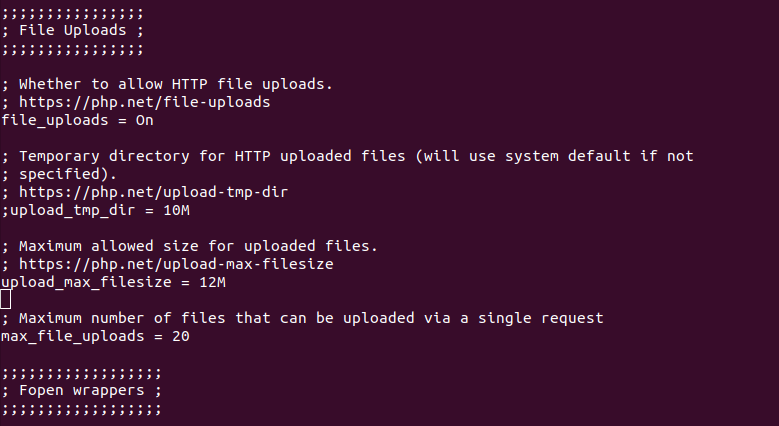
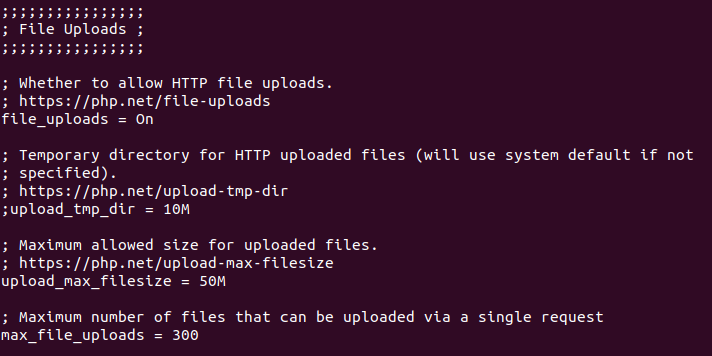
main

Changed region(s): [[0.0, 0.1854, 0.9888, 0.8034], [0.0, 0.8652, 0.8652, 0.9888], [0.0, 0.0, 0.2163, 0.1545]]

diff --git a/README.md b/README.md
@@ -1,81 +1,141 @@
 # PROJECTE 0.1 - Despliegue y Configuración en AWS
-## ÍNDICE
-- [Despliegue en AWS](#despliegue-en-aws)
-- [Tecnologías Utilizadas](#tecnologías-utilizadas)
-- [Instalación y Configuración](#instalación-y-configuración)
-- [Estructura de la Base de Datos](#estructura-de-la-base-de-datos)
-- [Archivos del Proyecto](#archivos-del-proyecto)
-- [Permisos y Seguridad](#permisos-y-seguridad)
-- [Requisitos Funcionales](#requisitos-funcionales)
-- [Requisitos No Funcionales](#requisitos-no-funcionales)
+## Índice
+
+1. [Despliegue en AWS](#1-despliegue-en-aws)
+    - [Creación de Instancia EC2](#11-creación-de-instancia-ec2)
+        - [Conexión mediante SSH](#111-conexión-mediante-ssh)
+    - [Actualización del sistema](#12-actualización-del-sistema)
+2. [Tecnologías utilizadas](#2-tecnologías-utilizadas)
+    - [NGINX vs Apache](#21-nginx-vs-apache)
+    - [PHP-FPM vs mod_php](#22-php-fpm-vs-mod_php)
+    - [MariaDB vs MySQL](#23-mariadb-vs-mysql)
+    - [Comparativa de Tecnologías](#24-comparativa-de-tecnologías)
+3. [Instalación y Configuración](#3-instalación-y-configuración)
+    - [Instalación de PHP](#31-instalación-de-php)
+    - [Configuración de PHP](#32-configuración-de-php)
+    - [Instalación de MariaDB](#33-instalación-de-mariadb)
+    - [Configuración de MariaDB](#34-configuración-de-mariadb)
+    - [Instalación de NGINX](#35-instalación-de-nginx)
+    - [Configuración de NGINX](#36-configuración-de-nginx)
+4. [Base de datos](#4-base-de-datos)
+5. [Archivos del Proyecto](#5-archivos-del-proyecto)
+6. [Permisos y Seguridad](#6-permisos-y-seguridad)
+7. [Requisitos Funcionales](#7-requisitos-funcionales)
+8. [Requisitos No Funcionales](#8-requisitos-no-funcionales)
+
 
 
 ## 1. Despliegue en AWS
 
 ### 1.1 Creación de Instancia EC2
-- Acceder a la consola de AWS
-- Lanzar una instancia EC2
-- Seleccionar la AMI **Amazon Linux 2**
-- Tipo de instancia: **t2.micro** (nivel gratuito)
-- Configurar el **grupo de seguridad** con los puertos: 22 (SSH) / 80 (HTTP) / 443 (HTTPS)
-- Generar un **par de claves SSH**
+- Lanzamiento del laboratorio de **AWS Academy**.  
+- Abrir consola AWS y crear instancia EC2.  
+- Selección de AMI: **Amazon Linux 2**.  
+- Tipo de instancia: **t2.micro** (nivel gratuito).  
+- Configuración de **grupo de seguridad**: puertos 22 (SSH), 80 (HTTP), 443 (HTTPS).  
+- Generación de par de claves SSH.
 
-![Texto Alternativo](/img/instancia-ec2.png)
+![Instancia EC2](/img/instancia-ec2.png)
 
-#### Conexión mediante SSH
-    ssh -i "tu-clave.pem" ec2-user@tu-ip-publica
+#### 1.1.1. Conexión mediante SSH
+    ssh -i "clave.pem" ec2-user@tu-ip-publica
 
-![Texto Alternativo](/img/conexión-ssh.png)
+![Conexión SSH](/img/conexión-ssh.png)
 
-## Lanzamiento de la máquina AWS
-- Lanzamiento del Laboratorio para el alumnado de AWS Academy
+### 1.2 Actualización del sistema
+    sudo yum update -y
 
-![Texto Alternativo](/img/image.png)
-
-- Abro la consola AWS para cerrar instancia
-
-![Texto Alternativo](/img/image1.png)
-
-- Termino creando la instancia
-
-![Texto Alternativo](/img/image2.png)
-
-- Ya la ejecuto y los datos
-
-![Texto Alternativo](/img/image3.png)
+![Actualización Sistema](/img/actualización-sistema.png)
 
 
-## Conexión de la máquina AWS con ssh
+## 2. Tecnologías utilizadas
+### 2.1. NGINX vs Apache
+
+<p align="center">
+  <img src="img/nginx-apache.png" alt="NGINX vs Apache" width="500" />
+</p>
 
 
+Se eligió **NGINX** como servidor web principal en lugar de **Apache** por varias razones:
 
-- Actualización de sistema
+- **Arquitectura basada en eventos:** NGINX maneja un gran número de conexiones concurrentes de manera más eficiente, mientras que Apache utiliza un modelo basado en procesos o hilos, que consume más memoria y CPU bajo carga alta.
+- **Consumo de recursos:** NGINX es más ligero, lo que lo hace ideal para entornos cloud con recursos limitados (por ejemplo, **t2.micro** en AWS).
+- **Rendimiento en contenido estático:** NGINX entrega archivos estáticos mucho más rápido que Apache, reduciendo tiempos de carga.
+- **Estabilidad bajo carga:** Su diseño evita que el servidor se bloquee ante picos de tráfico, ofreciendo mayor confiabilidad para aplicaciones web modernas.
 
-![Texto Alternativo](/img/image5.png)
+En resumen, **NGINX ofrece mayor eficiencia, estabilidad y escalabilidad** frente a Apache, especialmente en entornos con tráfico variable o alto número de conexiones simultáneas.
 
-## Tecnologias implicadas
-- NGINX vs Apache
-  > Nginx consume menos recursos y maneja mejor conexiones concurrentes que Apache 
-- PHP FPM
-  > Usamos PHP-FPM porque separa PHP del webserver: si un script falla o se cuelga, nginx sigue sirviendo imágenes/CSS sin caerse. Con mod_php todo el Apache se satura.
-- MariaDB vs MySql
-  > MariaDB porque su imagen Docker Alpine es 4x más pequeña y ligera que MySQL oficial, mismo SQL pero menos RAM
+---
 
-### Instalacion de cada servicio
-***Intalación de php***
-> sudo yum install -y httpd php
+### 2.2. PHP-FPM vs mod_php
 
-![Texto](/img/image.png)
+<p align="center">
+  <img src="img/phpfpm-modphp.png" alt="PHP-FPM vs mod_php" width="500" />
+</p
 
-**Verificar configuración de PHP para subida de archivos**
-> sudo nano /etc/php.ini
+Se eligió **PHP-FPM (FastCGI Process Manager)** en lugar de **mod_php** por varias razones clave:
 
-![Texto](/img/arxiuphp.png)
+- **Separación de responsabilidades:** PHP-FPM ejecuta los scripts PHP de forma independiente del servidor web, mientras que mod_php ejecuta PHP dentro del mismo proceso de Apache. Esto significa que si un script falla, **NGINX sigue funcionando sin interrupciones**, garantizando mayor estabilidad.
+- **Eficiencia y rendimiento:** PHP-FPM permite manejar múltiples procesos PHP de manera optimizada y controlada, ajustando memoria, número de procesos y tiempos de ejecución. Esto resulta más eficiente que mod_php, que consume más memoria y recursos al correr PHP dentro del servidor web.
+- **Compatibilidad con NGINX:** NGINX no soporta módulos PHP como Apache, por lo que PHP-FPM es la opción natural y recomendada para esta combinación.
+- **Escalabilidad y seguridad:** Al separar la ejecución de PHP del servidor web, se facilita el aislamiento de procesos, la gestión de usuarios y la implementación de entornos escalables o contenedores, mejorando tanto la seguridad como la capacidad de escalar la aplicación.
 
-![Texto](/img/anterior.png)
+En resumen, **PHP-FPM ofrece estabilidad, rendimiento y compatibilidad con NGINX**, mientras que mod_php sería más limitado y pesado, especialmente en entornos cloud con recursos limitados.
 
-Cambiamos los datos segun nuestras necesidades
-![Texto](/img/nuevo.png)
+---
+
+### 2.3. MariaDB vs MySQL
+
+<p align="center">
+  <img src="img/mysql-mariadb.png" alt="MariaDB vs MySQL" width="500" />
+</p>
+
+Se optó por **MariaDB** como sistema gestor de bases de datos en lugar de **MySQL** por varias razones:
+
+- **Ligereza y rendimiento:** MariaDB es más ligera que MySQL, lo que se traduce en un mejor rendimiento en instancias con recursos limitados.
+- **Compatibilidad completa:** Mantiene **compatibilidad total con SQL y con las APIs de MySQL**, permitiendo migraciones sencillas y sin necesidad de cambiar el código de la aplicación.
+- **Desarrollo activo y comunidad:** Al ser un proyecto de código abierto con desarrollo activo, MariaDB recibe mejoras constantes en rendimiento, seguridad y estabilidad, mientras que algunas versiones de MySQL tienen ciclos de actualización más conservadores.
+- **Funciones avanzadas:** MariaDB ofrece características adicionales como motores de almacenamiento optimizados, mejoras en replicación y mejor soporte para entornos modernos.
+
+En resumen, **MariaDB combina compatibilidad, eficiencia y soporte activo**, siendo una alternativa moderna y confiable frente a MySQL.
+
+### 2.4. Comparativa de Tecnologías
+
+| Tecnología | Opción 1 | Opción 2 | Justificación de la elección |
+|------------|----------|----------|------------------------------|
+| Servidor web | **NGINX** | Apache | NGINX consume menos recursos, maneja mejor conexiones concurrentes, entrega contenido estático más rápido y es más estable bajo carga, ideal para entornos cloud. |
+| Procesamiento PHP | **PHP-FPM** | mod_php | PHP-FPM separa la ejecución de PHP del servidor web, permite mejor control de procesos y memoria, mejora la estabilidad y es compatible con NGINX, mientras que mod_php es más pesado y limitado. |
+| Base de datos | **MariaDB** | MySQL | MariaDB es más ligera, mantiene compatibilidad total con MySQL, tiene desarrollo activo, mejor rendimiento y funciones avanzadas, siendo ideal para entornos modernos y con recursos limitados. |
+
+## 3. Instalación y configuración
+
+### 3.1 Instalación de PHP
+    sudo yum install -y httpd php
+
+![PHP FPM](/img/php-fpm.png)
+
+Comprobación del estado de los servicios para garantizar que PHP FPM está operativo.
+
+![Comprobación Servicios](/img/systemctl-php.png)
+
+### 3.2 Configuración de PHP
+#### 3.2.1. Edición del archivo php.ini
+
+Modificación del archivo de configuración principal de PHP para optimizar la subida de archivos multimedia.
+
+    sudo nano /etc/php.ini
+
+![Archivo PHP](/img/arxiuphp.png)
+
+#### 3.2.2. Parámetros de configuración modificados
+
+| Directiva             | Valor Original | Valor Configurado | Justificación Técnica                                                                 |
+|-----------------------|----------------|-----------------|--------------------------------------------------------------------------------------|
+| upload_tmp_dir        | 2M             | 10M             | Permite la subida de imágenes de mayor resolución (hasta 10MB), necesario para contenido multimedia moderno |
+| upload_max_filesize   | 8M             | 50M             | Debe ser superior a upload_max_filesize para incluir el payload completo del formulario (archivo + metadatos) |
+| max_file_upload       | 20             | 300             | Incrementa el timeout de ejecución a 300 segundos para evitar interrupciones en subidas lentas o procesamiento de imágenes |
+
+![Nuevo Archivo PHP](/img/nuevo.png)
 
 ***Instalación de Mariadb***
 > sudo dnf install -y nginx php-fpm php-mysqlnd mariadb105-server
